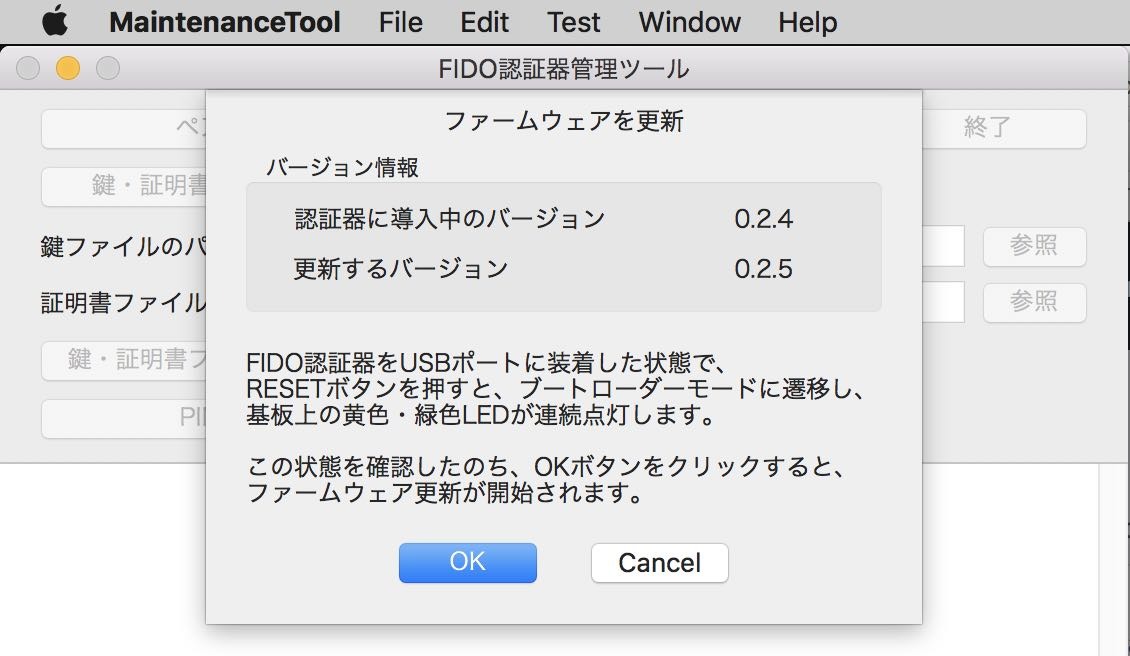
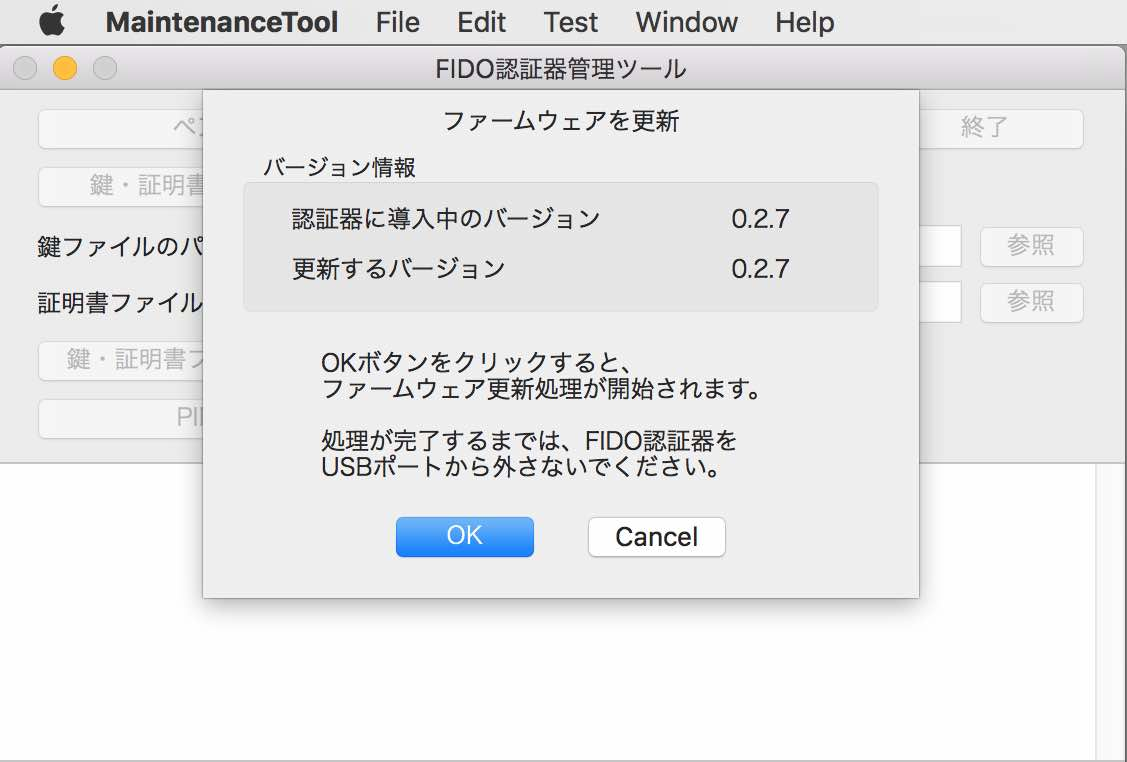
画面イメージを修正
・ブートローダー遷移のためのユーザー操作が不要になったため、画面上に表示されるコメントを修正
・ドキュメントの説明記述を修正

diff --git a/MaintenanceTool/macOSApp/DFUFUNC.md b/MaintenanceTool/macOSApp/DFUFUNC.md
@@ -80,8 +80,11 @@ IBAction（メニュー選択）により、メソッド`dfuProcessWillStart`を
 }
 ```
 
-`commandWillVerifyDFUConnection`では、MDBT50Q Dongleがブートローダーモードに遷移しているかどうかのチェックを行います。<br>
-注意点として、この処理は別スレッドで実行されます。
+`commandWillVerifyDFUConnection`では、MDBT50Q Dongleに対し、ブートローダー遷移コマンドが実行されます。<br>
+MDBT50Q Dongleから応答が戻ると、管理ツールは即座にUSB HID接続を解消し、１秒ウェイトします。
+
+その後、MDBT50Q Dongleがブートローダーモードに遷移しているかどうかのチェックを行います。<br>
+注意点として、このチェック処理は、別スレッドで実行されます。
 
 完了すると、チェック結果を処理開始画面に引き渡すため、`commandDidVerifyDFUConnection`を呼び出します。
 
